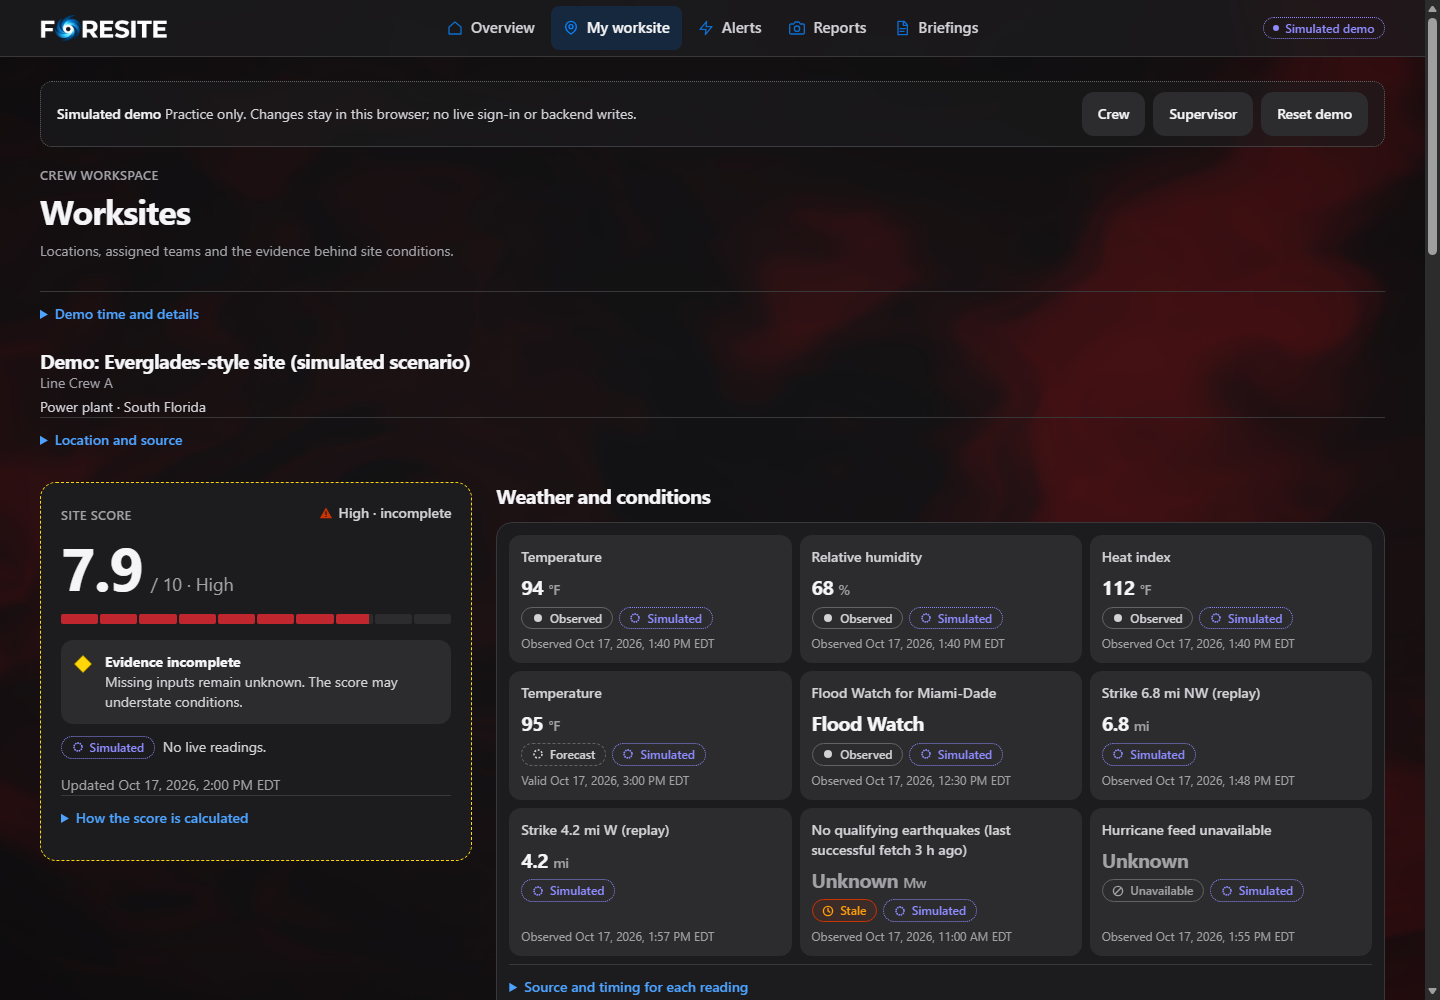
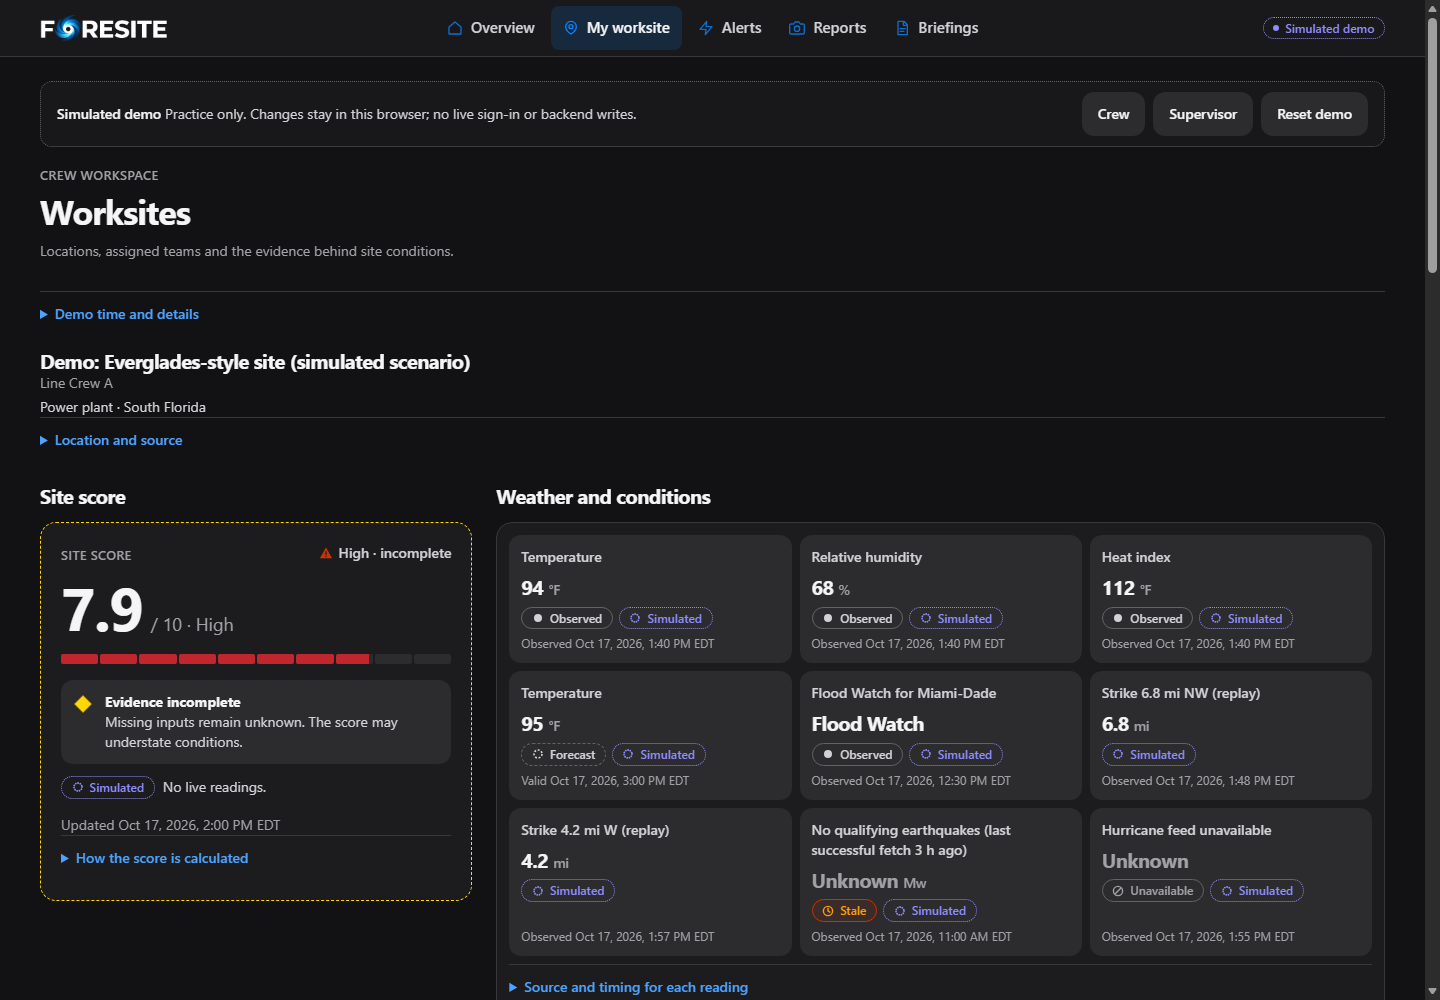
Align worksite cards and show all supported hazard contributors

diff --git a/frontend/src/components/data/SiteHazards.tsx b/frontend/src/components/data/SiteHazards.tsx
@@ -1,0 +1,59 @@
+import type { SiteRecord } from '../../api/contracts'
+import { siteHazards } from '../../presentation/site-hazards'
+import { Details } from './Details'
+import { RiskShape } from './Risk'
+import { Status, Timestamp } from './Status'
+
+/** Environmental evidence and confirmed reports supplement, never replace, notice workflows. */
+export function SiteHazards({ site }: { site: SiteRecord }) {
+  const hazards = siteHazards(site)
+  if (!hazards.length) return null
+  return (
+    <section aria-label="Environmental hazards and score contributors"
+      className="@container overflow-hidden rounded-2xl border border-line-strong bg-surface">
+      <div className="flex items-center gap-3 border-b border-line px-4 py-3">
+        <RiskShape kind="warn" className="size-6" />
+        <h3 className="text-base font-bold">Active alerts and score contributors</h3>
+      </div>
+      <ul className="grid @xl:grid-cols-2">
+        {hazards.map((hazard) => (
+          <li key={hazard.id} data-site-hazard={hazard.id} className="min-w-0 space-y-2.5 border-b border-line p-4">
+            <h4 className="text-lg font-bold">{hazard.label}</h4>
+            {hazard.alerts.map((alert) => (
+              <div key={alert.id} className="space-y-1 text-sm">
+                <p className="font-semibold">Active {alert.rule === 'heat' ? 'advisory' : 'alert'} · {alert.event_label}</p>
+                {!hazard.factors.length && <p className="text-muted">Latest qualifying event: <Timestamp value={alert.latest_event_at} /></p>}
+                {alert.simulated && !hazard.factors.some((f) => f.data_state === 'simulated') && <Status state="simulated" />}
+              </div>
+            ))}
+            {hazard.report && <p className="text-sm font-semibold">Supervisor-confirmed report</p>}
+            {hazard.factors.map((factor, i) => (
+              <div key={`${factor.evidence_id}-${i}`} className="space-y-1 text-sm">
+                <div className="flex flex-wrap items-center justify-between gap-2">
+                  <Status state={factor.data_state} />
+                  <span className="font-semibold tabular-nums">{factor.contribution} score {factor.contribution === 1 ? 'point' : 'points'}</span>
+                </div>
+                <p className="text-muted [overflow-wrap:anywhere]">{factor.source} · <Timestamp value={factor.observed_at} /></p>
+              </div>
+            ))}
+            <Details title="Hazard evidence">
+              {hazard.alerts.map((alert) => (
+                <p key={alert.id} className="text-sm [overflow-wrap:anywhere]">
+                  Alert: {alert.id}. {alert.evidence.map((e) => `${e.label} (${e.id})`).join('; ')}
+                </p>
+              ))}
+              {hazard.factors.map((factor, i) => (
+                <p key={i} className="text-sm [overflow-wrap:anywhere]">
+                  {factor.label}<br />
+                  Score evidence: {factor.evidence_id ?? 'reference not supplied'}.
+                  {factor.is_prototype && ' Prototype scoring setting, not employer policy.'}
+                </p>
+              ))}
+              <p className="text-sm text-muted">Source evidence does not confirm unmeasured worksite conditions. Alerts and supervisor instructions still apply.</p>
+            </Details>
+          </li>
+        ))}
+      </ul>
+    </section>
+  )
+}

diff --git a/frontend/src/presentation/site-hazards.ts b/frontend/src/presentation/site-hazards.ts
@@ -1,0 +1,55 @@
+import type { SiteRecord } from '../api/contracts'
+import type { Alert, CrewReport, FactorContribution } from '../types/api'
+import { displayLabel, factorLabel } from './display'
+
+export interface SiteHazard {
+  id: string
+  label: string
+  factors: FactorContribution[]
+  alerts: Alert[]
+  report?: CrewReport
+}
+
+const alertKey = (alert: Alert) =>
+  alert.rule === 'lightning_stop_work' ? 'lightning' :
+    alert.rule === 'heat' ? 'heat_index' : alert.rule
+
+/** Read-only projection of backend decisions. No thresholds, totals or alert lifecycle here. */
+export function siteHazards(site: SiteRecord): SiteHazard[] {
+  const rows = new Map<string, SiteHazard>()
+  const row = (id: string, label: string) => {
+    if (!rows.has(id)) rows.set(id, { id, label, factors: [], alerts: [] })
+    return rows.get(id)!
+  }
+  // Include every active tier, even when a higher tier is the primary alert card.
+  // Feed failure or an elapsed timer must never hide an authoritative active alert.
+  for (const alert of site.alerts) {
+    if (alert.site_id !== site.id || alert.state !== 'active') continue
+    const key = alertKey(alert)
+    row(key, key === 'heat_index' ? 'Heat' : factorLabel(key)).alerts.push(alert)
+  }
+  const factors = site.score?.site_id === site.id
+    ? site.score.factor_contributions : site.score ? [] : site.top_factors
+  for (const factor of factors) {
+    if (factor.factor === 'model' || !Number.isFinite(factor.contribution) ||
+      factor.contribution <= 0 || factor.data_state === 'unavailable') continue
+    if (factor.factor === 'crew_report') {
+      const report = site.reports.find((r) => r.id === factor.evidence_id &&
+        r.site_id === site.id && r.hazard_present && r.review_status === 'confirmed')
+      if (!report) continue
+      // The existing confirmed-notice row already supplies this hazard and its instruction.
+      if (site.notices.some((n) => n.status === 'confirmed' &&
+        (n.id === report.notice_id || n.source_ref === report.id))) continue
+      const entry = row(`report:${report.id}`,
+        displayLabel(report.confirmed_category ?? report.category))
+      entry.report = report
+      entry.factors.push(factor)
+    } else {
+      // A positive stored factor is evidence, not supervisor confirmation. Preserve
+      // forecast, stale and simulated states instead of promoting them to observed.
+      row(factor.factor, factor.factor === 'heat_index' ? 'Heat' : factorLabel(factor.factor))
+        .factors.push(factor)
+    }
+  }
+  return [...rows.values()]
+}

diff --git a/frontend/src/pages/ConnectedPages.tsx b/frontend/src/pages/ConnectedPages.tsx
@@ -42,6 +42,7 @@ import { AlertCard } from '../components/data/AlertCard'
 import { topTier, visibleAlertGroups } from '../presentation/alerts'
 import { EventOutlooks } from '../components/data/EventOutlooks'
 import { ConfirmedHazards, NoticeCard } from '../components/data/NoticeCard'
+import { SiteHazards } from '../components/data/SiteHazards'
 import { ReportAnalysis } from '../components/data/ReportAnalysis'
 import { JoinTeam, TeamPage } from '../components/data/TeamRoster'
 import { SupervisorOverview } from '../components/data/SupervisorOverview'
@@ -64,9 +65,6 @@ import {
 } from '../presentation/display'
 import { Details } from '../components/data/Details'
 import { DemoSiteContext, isDemoSite } from '../components/data/demo-site'
-const Advisory = lazy(() =>
-  import('../components/data/Advisory').then((m) => ({ default: m.Advisory })),
-)
 const SiteMap = lazy(() =>
   import('../components/data/SiteMap').then((m) => ({ default: m.SiteMap })),
 )
@@ -245,6 +243,7 @@ function SitePage({
   const hazards = (
     <section className={`${card} space-y-3 border border-line p-3`}>
       <SectionHead title="Hazards and supervisor instructions" />
+      <SiteHazards site={site} />
       {site.notices.length ? (
         <>
           {site.notices.filter(needsAction).map((n) => (
@@ -290,15 +289,6 @@ function SitePage({
       />
       {/* Read-only regional context for team sites; never feeds score or alerts. */}
       {site.assigned_team && <SpeciesSection site={site} />}
-      <Suspense
-        fallback={
-          <p role="status" className="kicker">
-            Loading advisory…
-          </p>
-        }
-      >
-        <Advisory site={site} demo={client.mode === 'demo'} showAll={persona === 'crew'} />
-      </Suspense>
     </>
   )
 
@@ -358,7 +348,8 @@ function SitePage({
             {locationDetails}
           </div>
           <div className="space-y-5 xl:grid xl:grid-cols-12 xl:items-start xl:gap-6 xl:space-y-0">
-            <div className="min-w-0 space-y-5 xl:col-span-4" data-crew-score>
+            <div className="min-w-0 space-y-3 xl:col-span-4" data-crew-score>
+              <SectionHead title="Site score" />
               {score}
             </div>
             <div className="min-w-0 xl:col-span-8" data-crew-conditions>

diff --git a/docs/CREW_RESPONSIVE_LAYOUT.md b/docs/CREW_RESPONSIVE_LAYOUT.md
@@ -10,14 +10,24 @@ data, permissions and actions across screen sizes.
   has five destinations; only supervisors have Team. The main crew area is capped
   at **1440 px**, without a sidebar gutter.
 - From **1280 px**, Home places the active alert beside supervisor instructions.
-  My Worksite pairs the score and weather conditions, then shows the complete
-  score-factor breakdown in a separate responsive grid.
+  My Worksite pairs the score and weather conditions with matching section headings
+  so both cards start at the same height, then shows the complete score-factor
+  breakdown in a separate responsive grid.
 - My Worksite shows every supplied observation, available event tile, full report
-  card and unverified-condition summary without View more/View less controls. Reading
+  card and score factor without View more/View less controls. Reading
   and event grids gain columns when space permits; report columns are bounded by
   the actual report count. Named technical source/evidence disclosures remain available.
 - Alerts uses one full-width card per row for both roles. The existing countdown,
   server status, evidence, acknowledgement and instruction behavior is preserved.
+- The redundant **Unverified worksite conditions** panel is removed from crew and
+  supervisor site pages. Duration estimates remain on the relevant confirmed notice
+  and in the independent event outlooks; no ML contract or model was removed.
+- Home and supervisor site hazards include lightning and all active alert tiers,
+  plus positive stored score contributors. Responsive evidence tiles retain exact
+  backend points, sources, times and observed/forecast/stale/simulated distinctions.
+  They supplement the separate supervisor-confirmed notice/instruction list. A scored
+  report without a notice appears only if it is confirmed-present at the same site;
+  pending, rejected, absent and missing reports cannot become confirmed hazards.
 
 [Home desktop](crew-desktop.png) ? [Home phone](crew-mobile.png) ?
 [Expanded worksite](worksite-expanded.png) ? [Full-width alerts](alerts-full-width.png)
@@ -39,12 +49,14 @@ node scripts/check-shell.mjs http://localhost:5177/
 
 Regression checks cover centered navigation, full-width alerts, complete worksite
 readings/reports/outlooks, visible score factors and absent View more controls.
-Three new rendering checks cover expanded observations, event cards and unverified
-conditions, retaining source details and research/historical limitations. Optional
-display props default to the prior presentation outside the crew worksite.
+Eight hazard regression tests cover tier-independent lightning, source states,
+all supported environmental score contributors, outage/elapsed-window alert retention,
+report eligibility/deduplication and site identity. Source details and existing
+research/historical limitations remain available with their associated evidence.
 
-Focused browser checks cover 24 role/page cases at 320/390/768/1024/1280/1440/1920/2560,
-with zero horizontal overflow, exceptions or real backend calls. Unit count: 186.
+Focused browser checks cover 32 role/page cases at 320/390/768/1024/1280/1440/1920/2560,
+with zero horizontal overflow, exceptions or real backend calls and score/weather card
+top alignment within 1px at desktop widths. Unit count: 194.
 Lint, TypeScript, default/live and explicit-demo production builds and the complete
 development/built-demo browser workflow suites also pass.
 Existing bundle-size warnings remain; browser evidence is demo/mocked verification,

diff --git a/PROJECT_CONTEXT.md b/PROJECT_CONTEXT.md
@@ -2,9 +2,14 @@
 
 Read this index first, then AGENTS.md, spec.md, tasks.md and relevant source. Verify facts in code; detailed historical results remain in owner guides and Git history.
 
+## Aligned worksite cards and complete hazard evidence - 2026-10-18
+- Explicit user authorization, `feature/cache-worksite-hazard-evidence`, base main `4567883`: align score/weather card tops with matching section headings and remove the redundant Unverified worksite conditions panel. Existing event outlooks and notice-linked duration estimates remain.
+- Crew Home and supervisor site hazards now include every server-active alert (including lightning and lower tiers) and positive deterministic score contributors. Source states stay observed/forecast/stale/simulated; supervisor-confirmed notices/instructions remain separate. Confirmed-present scored reports without notices are included; pending/rejected/absent reports are excluded and reports already represented by confirmed notices are not duplicated.
+- Verified 194 frontend tests, lint/TypeScript, production build and 32 focused browser cases over eight widths; card tops align within 1px and no overflow, exceptions or backend calls occurred. [Current layout and validation guide](docs/CREW_RESPONSIVE_LAYOUT.md). No scoring weights, alert rules, backend/auth/contracts/fixtures/models or task checkboxes changed. User authorizes push and merge after checks.
+
 ## Centered top bar and expanded worksite - 2026-10-18
 - User-authorized `feature/cache-worksite-open-layout`, base main `1c1dc6b` (PR75 already merged top navigation): center desktop navigation for both Crew and Supervisor; retain mobile tabs and existing role options.
-- My Worksite shows all readings/available event tiles, full report cards, score factors and unverified-condition summary without View more controls. Responsive grids and report-count-aware columns use the space; named provenance disclosures remain. Alert pages show one full-width card per row. [Current guide](docs/CREW_RESPONSIVE_LAYOUT.md).
+- My Worksite shows all readings/available event tiles, full report cards and score factors without View more controls. The later update above removes its original unverified-condition panel. Responsive grids and report-count-aware columns use the space; named provenance disclosures remain. Alert pages show one full-width card per row. [Current guide](docs/CREW_RESPONSIVE_LAYOUT.md).
 - Incorporated main `a86110f`, preserving Rudra's PR76 tiered/merged stop-work cards, per-alert acknowledgement and canonical fixture/type updates, plus Braydin's hosted-login theme work. This PR does not change alert rules, rankings, scoring or authentication.
 - Verified 186 frontend tests, lint/TypeScript, default/live and explicit-demo builds, development/built-demo browser workflow suites, and 24 focused browser cases over eight widths; no overflow, exceptions or real backend calls. Changes are presentation-only with default-compatible component props; no backend, auth, model/scoring, fixture or task-state changes. User explicitly authorizes publishing and merging after verification.
 

diff --git a/docs/CROSS_SCOPE_CHANGES.md b/docs/CROSS_SCOPE_CHANGES.md
@@ -1,3 +1,29 @@
+## Worksite alignment and hazard evidence (Cache for Rudra) - 2026-10-18 06:46 UTC
+
+Explicit user authorization covers focused frontend edits, push and merge after
+verification. Branch `feature/cache-worksite-hazard-evidence` starts from main
+`4567883`, preserving the landing-demo button and PR76/77 navigation/alert changes.
+`ConnectedPages.tsx` gives score/weather matching headings, removes the rendered
+Unverified worksite conditions panel and consumes the new read-only `SiteHazards`
+component / `presentation/site-hazards.ts` projection. Existing EventOutlooks,
+notice-linked duration estimates and supervisor instruction workflows are retained.
+
+Every active alert tier remains visible as hazard evidence, including lightning;
+only the existing primary alert card applies tier priority. Positive stored factors
+keep their exact points and source states. A report-only row requires a linked,
+same-site confirmed-present report; confirmed notices already represent their report.
+No inferred human confirmation, frontend score computation, timer/alert transitions,
+API contract/auth/backend/model/fixture changes, task check-offs or external writes.
+Rudra should retain these component interfaces during future UI work; Braydin's
+Auth0/Tiger Data acceptance remains independent. The obsolete Advisory module remains
+available for independent replay tooling but is no longer mounted in application pages.
+
+194 frontend tests, lint/TypeScript, production build and 32 focused browser cases
+across 320/390/768/1024/1280/1440/1920/2560 pass. Card tops align within 1px; no
+overflow, browser exceptions or actual API calls. Existing browser regression checks
+now exercise complete hazard coverage and the removed panel. Commit/PR are recorded
+by this entry's Git history and the review link in the layout guide.
+
 ## Expanded worksite, full-width alerts and centered top bar (Cache for Rudra) - 2026-10-18
 
 Explicit user requests authorize the presentation changes and merge after verification.
